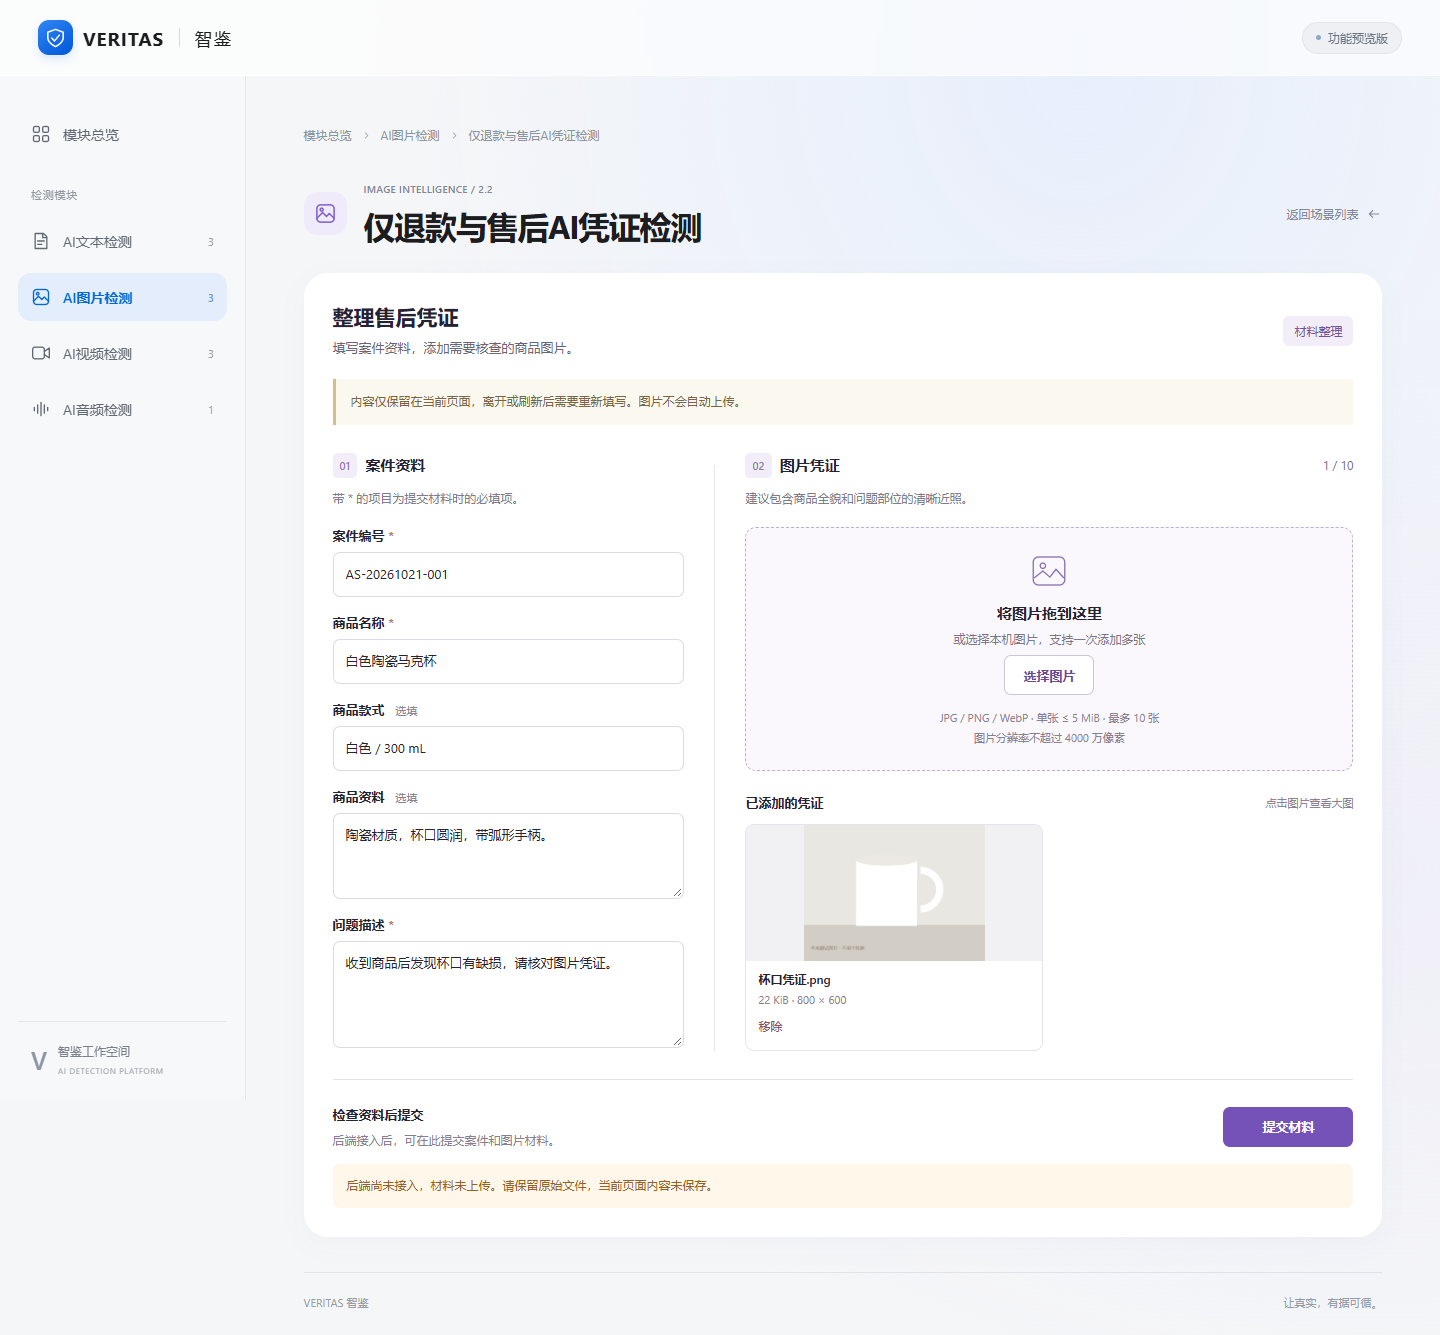
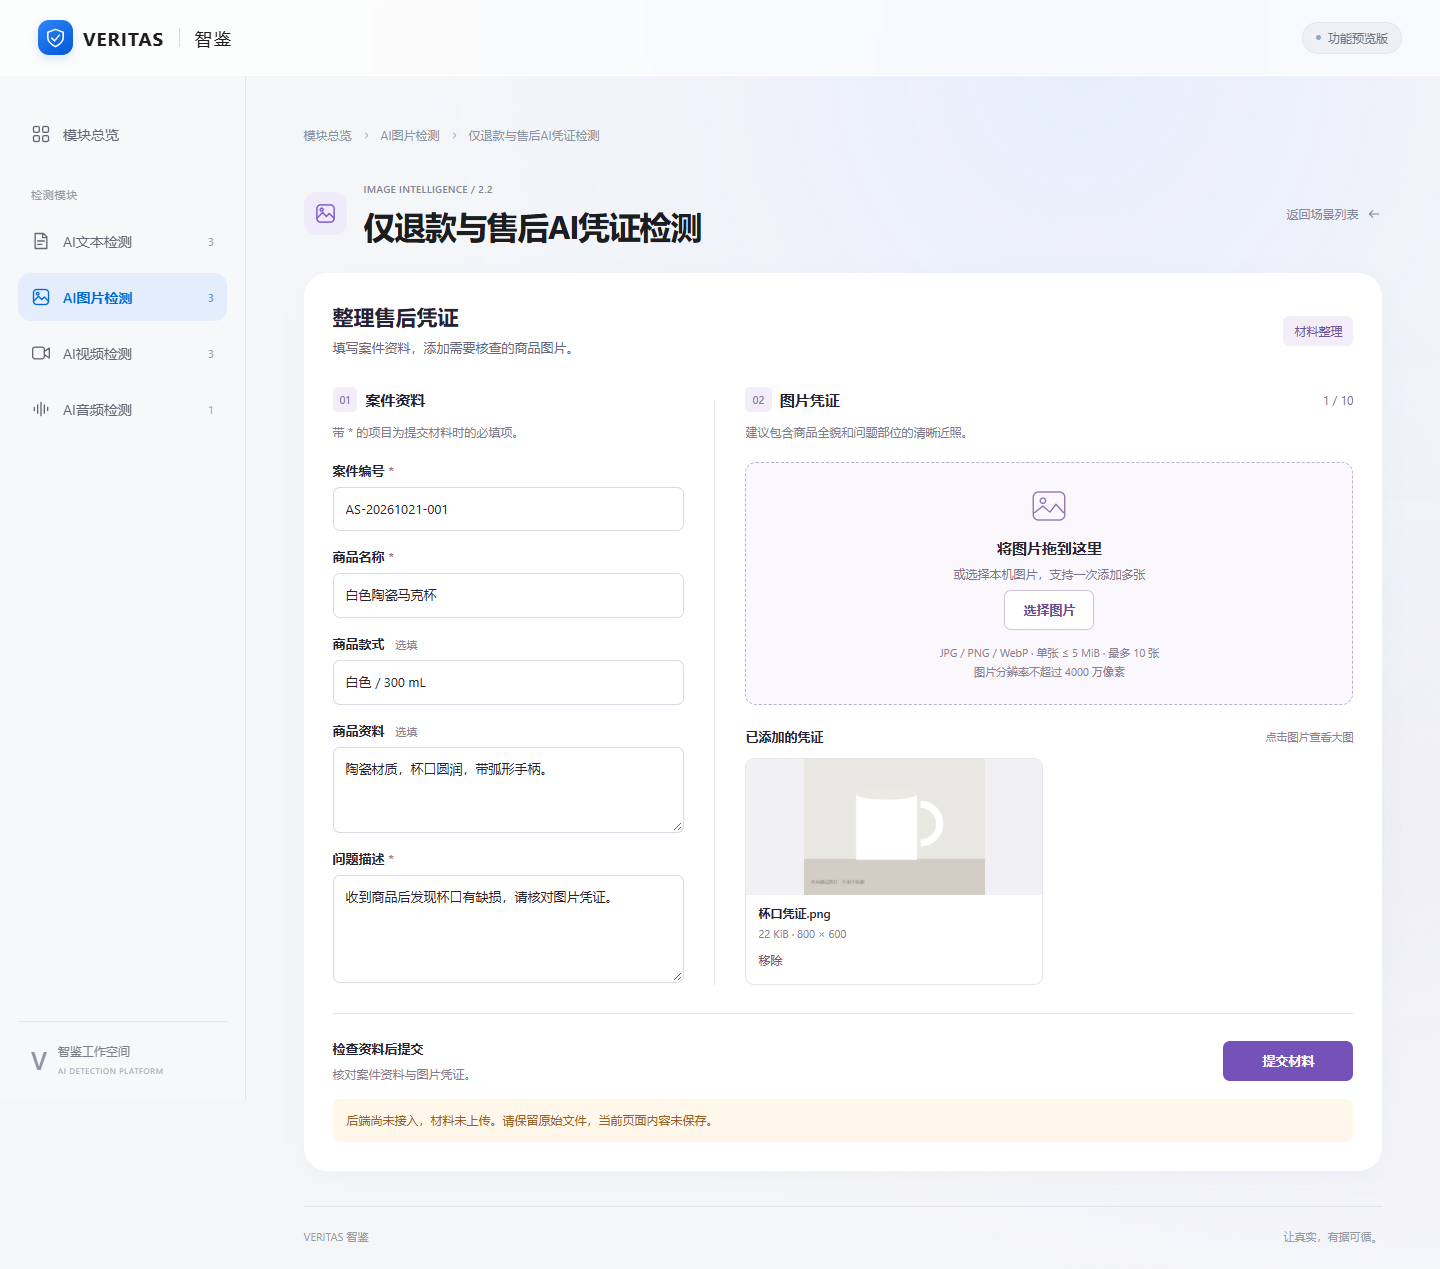
fix(image-refund): 移除页面常驻实现状态说明

diff --git a/src/styles.css b/src/styles.css
@@ -17,7 +17,7 @@
 /* 2.2: material preparation; scoped to its workspace. */
 .refund-workspace{padding:28px;background:#fff;--refund-accent:#7452b8;--refund-line:#e6e3ed;color:#252333}
 .refund-workspace [hidden]{display:none!important}
-.refund-intro{display:flex;align-items:center;justify-content:space-between;gap:16px}.refund-intro h2{font-size:21px;font-weight:650}.refund-intro p{font-size:13px;color:#6b6677;line-height:1.7;margin-top:7px}.refund-local-tag{font-size:12px;color:#70539b;background:#f2edf9;border-radius:6px;padding:7px 11px;white-space:nowrap}.refund-session-note{font-size:12px;line-height:1.8;color:#776644;padding:12px 15px;background:#fbf8f0;border-left:3px solid #d7bd83;margin:20px 0 28px}
+.refund-intro{margin-bottom:28px;display:flex;align-items:center;justify-content:space-between;gap:16px}.refund-intro h2{font-size:21px;font-weight:650}.refund-intro p{font-size:13px;color:#6b6677;line-height:1.7;margin-top:7px}.refund-local-tag{font-size:12px;color:#70539b;background:#f2edf9;border-radius:6px;padding:7px 11px;white-space:nowrap}
 .refund-columns{display:grid;grid-template-columns:minmax(230px,.85fr) minmax(0,1.35fr);gap:30px}.refund-form fieldset{border:0;padding:0;margin:0;min-width:0}.refund-form legend{font-size:15px;font-weight:650;padding:0;width:100%;display:flex;align-items:center;gap:8px}.refund-form legend>span{font-size:11px;font-weight:500;color:#8d78ac;background:#f2edf9;padding:5px 7px;border-radius:5px}.refund-form legend output{font-size:12px;color:#80758e;margin-left:auto;font-weight:400}.refund-section-hint{font-size:12px;line-height:1.7;color:#807a8b;margin:10px 0 19px}.refund-details{border-right:1px solid var(--refund-line)!important;padding-right:30px!important}
 .refund-details label{display:block;font-size:13px;font-weight:550;margin:17px 0 8px}.refund-details label:first-of-type{margin-top:0}.refund-details label>span{color:#a45053}.refund-details label small{font-weight:400;color:#89828f;margin-left:7px;font-size:11px}.refund-details input,.refund-details textarea{display:block;width:100%;min-width:0;padding:11px 12px;border:1px solid #ddd9e5;border-radius:7px;font:inherit;font-size:13px;color:#282332;line-height:1.6;background:#fff;transition:border-color .15s}.refund-details textarea{resize:vertical;min-height:85px}.refund-details input::placeholder,.refund-details textarea::placeholder{color:#9c96a3}.refund-details input:focus,.refund-details textarea:focus{border-color:#8060cd;outline:2px solid #8060cd26;outline-offset:1px}.refund-details [aria-invalid=true]{border-color:#bc515c}.refund-field-error{font-size:12px;line-height:1.6;color:#ac3544;margin-top:5px}
 .refund-dropzone{border:1px dashed #bcb0d0;background:#faf8fd;min-height:235px;border-radius:11px;display:flex;align-items:center;justify-content:center;flex-direction:column;padding:22px 14px;gap:8px;text-align:center}.refund-dropzone svg{color:#8a70af;margin-bottom:3px}.refund-dropzone strong{font-size:15px;font-weight:600}.refund-dropzone>span{font-size:12px;color:#7d738a}.refund-dropzone small{font-size:11px;color:#898090;line-height:1.8;margin-top:5px}.refund-dropzone.is-dragging{background:#efe6ff;border-color:#7452b8;outline:2px solid #c4a8ed}
@@ -27,4 +27,4 @@
 .refund-preview{padding:0;border:0;border-radius:13px;max-width:min(960px,94vw);width:max-content;max-height:92vh;background:white;box-shadow:0 16px 70px #0004;color:#252333}.refund-preview::backdrop{background:#171322aa;backdrop-filter:blur(3px)}.refund-preview-header{display:flex;align-items:center;justify-content:space-between;gap:24px;padding:16px 20px}.refund-preview-header>div{min-width:0}.refund-preview-header h3{font-size:14px;overflow-wrap:anywhere}.refund-preview-header p{font-size:11px;color:#89808d;margin-top:5px}.refund-preview-image{padding:12px;background:#eeedf0;text-align:center;overflow:auto}.refund-preview-image img{display:block;max-width:100%;max-height:70vh;object-fit:contain;margin:auto}
 @media(max-width:1100px){.refund-workspace{padding:24px}.refund-columns{grid-template-columns:minmax(210px,1fr) minmax(0,1.15fr);gap:22px}.refund-details{padding-right:22px!important}.refund-image-list{grid-template-columns:1fr}}
 @media(max-width:900px){.refund-columns{grid-template-columns:1fr;gap:30px}.refund-details{border-right:0!important;padding-right:0!important}.refund-image-list{grid-template-columns:repeat(2,minmax(0,1fr))}}
-@media(max-width:480px){.refund-workspace{padding:20px 16px;border-radius:16px}.refund-intro{align-items:flex-start}.refund-intro h2{font-size:19px}.refund-local-tag{display:none}.refund-session-note{margin:17px 0 24px}.refund-image-list{grid-template-columns:repeat(2,minmax(0,1fr));gap:9px}.refund-thumbnail{height:110px}.refund-image-info{padding:9px}.refund-actions{align-items:stretch;flex-direction:column}.refund-preview-header{gap:12px;padding:12px}.refund-list-heading{flex-wrap:wrap}.refund-status{padding:10px}.refund-remove{min-height:36px}}
+@media(max-width:480px){.refund-workspace{padding:20px 16px;border-radius:16px}.refund-intro{align-items:flex-start}.refund-intro h2{font-size:19px}.refund-local-tag{display:none}.refund-image-list{grid-template-columns:repeat(2,minmax(0,1fr));gap:9px}.refund-thumbnail{height:110px}.refund-image-info{padding:9px}.refund-actions{align-items:stretch;flex-direction:column}.refund-preview-header{gap:12px;padding:12px}.refund-list-heading{flex-wrap:wrap}.refund-status{padding:10px}.refund-remove{min-height:36px}}

diff --git a/src/modules/image/pages/refund.js b/src/modules/image/pages/refund.js
@@ -6,7 +6,6 @@ export function renderImageRefund(container) {
   container.classList.add('refund-workspace');
   container.innerHTML = `
     <div class="refund-intro"><div><h2>整理售后凭证</h2><p>填写案件资料，添加需要核查的商品图片。</p></div><span class="refund-local-tag">材料整理</span></div>
-    <p class="refund-session-note">内容仅保留在当前页面，离开或刷新后需要重新填写。图片不会自动上传。</p>
     <form class="refund-form" novalidate>
       <div class="refund-columns">
         <fieldset class="refund-details"><legend><span>01</span> 案件资料</legend>
@@ -42,8 +41,8 @@ export function renderImageRefund(container) {
           <div class="refund-empty" data-refund-empty><span>还没有图片凭证</span><p>先添加图片，再对照案件资料检查。</p></div>
         </fieldset>
       </div>
-      <div class="refund-actions"><div><strong>检查资料后提交</strong><p>后端接入后，可在此提交案件和图片材料。</p></div><button type="submit" class="refund-button refund-button-primary">提交材料</button></div>
-      <p class="refund-status" data-refund-status role="status" aria-live="polite">后端尚未接入，当前可填写资料和预览图片。</p>
+      <div class="refund-actions"><div><strong>检查资料后提交</strong><p>核对案件资料与图片凭证。</p></div><button type="submit" class="refund-button refund-button-primary">提交材料</button></div>
+      <p class="refund-status" data-refund-status role="status" aria-live="polite" hidden></p>
     </form>
     <dialog class="refund-preview" aria-labelledby="refund-preview-title">
       <div class="refund-preview-header"><div><h3 id="refund-preview-title"></h3><p data-refund-preview-meta></p></div><button type="button" class="refund-button refund-button-secondary" data-refund-close aria-label="关闭预览">关闭</button></div>
@@ -64,7 +63,7 @@ export function renderImageRefund(container) {
   // A public frontend hook only; the backend's fields remain the adapter's responsibility.
   if (globalThis.Veritas) globalThis.Veritas.refund=refundSubmission;
   const sizeLabel=bytes=>bytes<1024*1024 ? `${Math.max(1,Math.round(bytes/1024))} KiB` : `${(bytes/1024/1024).toFixed(1)} MiB`;
-  function message(text,kind='info') { status.textContent=text; status.dataset.kind=kind; }
+  function message(text,kind='info') { status.textContent=text; status.dataset.kind=kind; status.hidden=false; }
   function controls() {
     container.querySelector('.refund-evidence').disabled=loading || submitting;
     container.querySelector('.refund-details').disabled=submitting;

diff --git a/openspec/changes/add-image-refund/specs/image-refund/spec.md b/openspec/changes/add-image-refund/specs/image-refund/spec.md
@@ -7,7 +7,7 @@
 ## ADDED Requirements
 
 ### Requirement: 案件资料填写
-前端 SHALL 提供案件编号、商品名称、款式、商品资料和问题描述输入，保留当前页面的编辑内容；明确刷新或离开页面不保证恢复。
+前端 SHALL 提供案件编号、商品名称、款式、商品资料和问题描述输入，保留当前页面的编辑内容；刷新或离开页面不保证恢复，此边界记录在接入文档，页面不常驻显示实现状态说明。
 
 #### Scenario: 填写与提交校验
 - **WHEN** 用户编辑资料后添加或移除图片

diff --git a/openspec/changes/add-image-refund/design.md b/openspec/changes/add-image-refund/design.md
@@ -29,7 +29,7 @@
 ## Risks / Trade-offs
 
 - 图片内存占用：限制数量和文件体积，及时释放临时URL；极大解码尺寸另作保护，不误报已添加。
-- 未持久化：页面持续显示刷新或离开后需重新填写的提示。
+- 未持久化：在接入文档说明页面内存边界。按用户确认，页面不常驻展示保存或后端接入状态的说明，仅在操作后显示必要反馈。
 - 后端缺失：默认不发送请求，服务端保持501；真实联调仍待后端完成。
 
 ## Delivery
